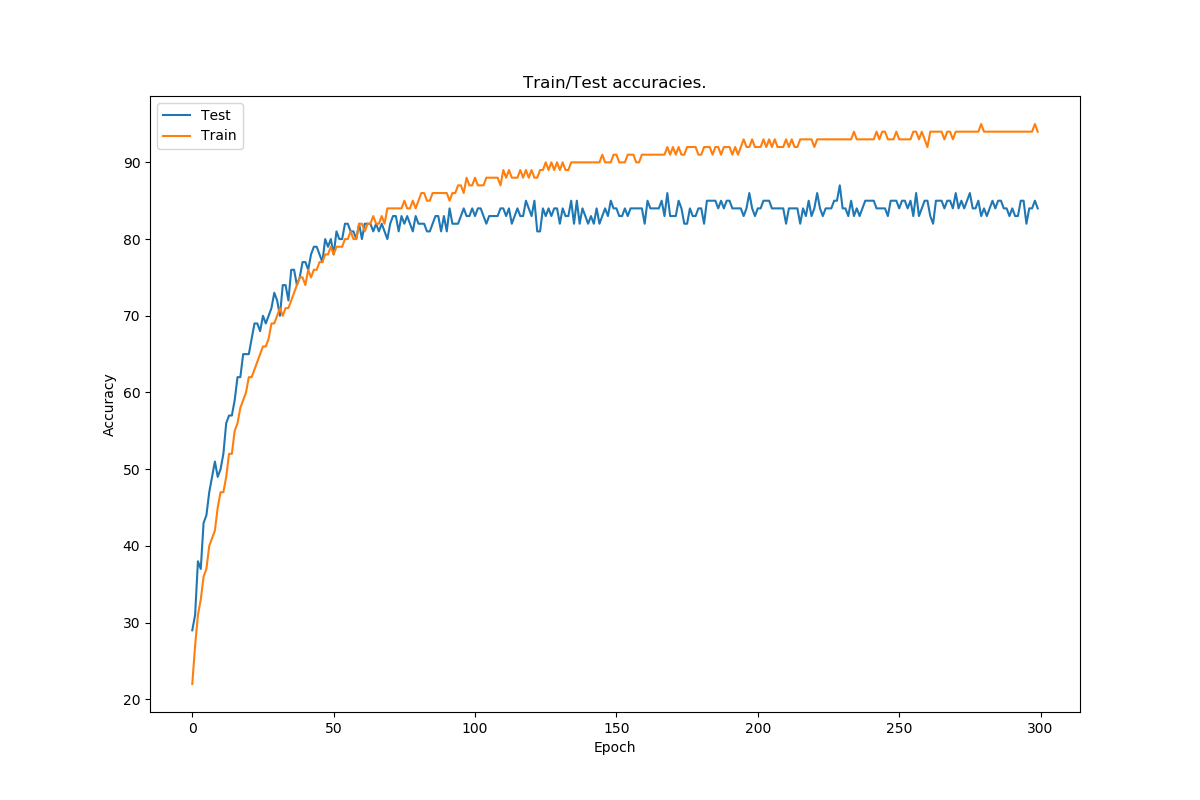
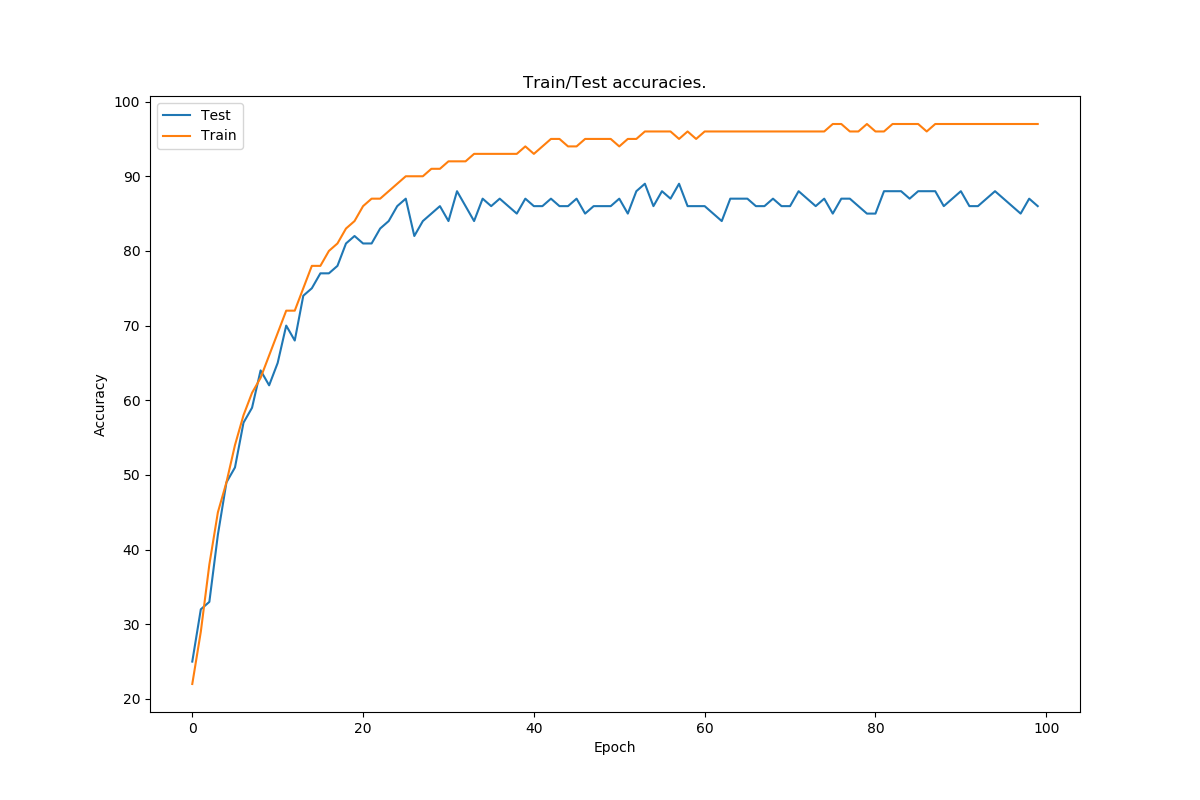
new model in development

diff --git a/layers/isotonic_layer.py b/layers/isotonic_layer.py
@@ -29,12 +29,28 @@ class Isotonic(nn.Module):
         self.weights = np.random.randn(4, self.input_channels,
                                        self.K, self.K)
         self.weights = torch.as_tensor(self.weights)
-        self.weights = torch.stack(
-            [weight_rotate(self.weights,
-                           i) for i in range(4)]).view((-1,
-                                                        self.input_channels,
-                                                        self.K, self.K))
-        
+        w0 = self.weights[0]
+        w1 = self.weights[1]
+        w2 = self.weights[2]
+        w3 = self.weights[3]
+        print(type(w0))
+        self.weights = torch.stack([torch.stack([w0, w1, w2, w3]),
+                                    torch.stack([weight_rotate(w3, 1),
+                                                 weight_rotate(w0, 1),
+                                                 weight_rotate(w1, 1),
+                                                 weight_rotate(w2, 1)]),
+                                    torch.stack([weight_rotate(w2, 2),
+                                                 weight_rotate(w3, 2),
+                                                 weight_rotate(w0, 2),
+                                                 weight_rotate(w1, 2)]),
+                                    torch.stack([weight_rotate(w1, 3),
+                                                 weight_rotate(w2, 3),
+                                                 weight_rotate(w3, 3),
+                                                 weight_rotate(w0, 3)])]).view(
+            (-1,
+             self.input_channels,
+             self.K,
+             self.K))
         self.weights.requires_grad = True
         return self.weights
 

diff --git a/main.py b/main.py
@@ -1,6 +1,6 @@
 from sklearn.metrics import f1_score, precision_score, recall_score
 # , classification_report, confusion_matrix
-from model_harmonic import HarmonicNet
+from models.model_harmonic import HarmonicNet
 # from local_loader import LocalLoader
 from loader import LoaderSmall
 import pandas as pd
@@ -12,9 +12,9 @@ import gc
 from typing import List  # pylint: ignore
 from tqdm import tqdm
 import matplotlib.pyplot as plt
-from albumentations.augmentations.transforms import RandomRotate90, Rotate
-from albumentations import Compose
 
+
+torch.random.manual_seed(42)
 
 tfms = None  # Compose(transforms=[RandomRotate90(p=0.4), Rotate(p=0.5)])
 
@@ -95,7 +95,7 @@ criterion = nn.BCEWithLogitsLoss()
 optimizer = optim.Adam(model_harmonic.parameters(),
                        # eps=1e-5,
                        lr=base_lr,
-                       weight_decay=0.0001)
+                       weight_decay=0.)
 
 best_acc = 0
 
@@ -237,7 +237,7 @@ def get_lr(optimizer=optimizer):
 
 
 # t = tqdm(total=300)
-for epoch in tqdm(range(100)):
+for epoch in range(100):
     lr = get_lr()
     # adjust_learning_rate(optimizer, epoch)
     print(f" Epoch: {epoch}, learning rate = {lr:1.2e};\n")

diff --git a/loader.py b/loader.py
@@ -27,7 +27,7 @@ class Loader(Dataset):
             self.train_labels,  self.test_labels = train_test_split(
                 np.asarray(data),
                 np.asarray(labels),
-                test_size=0.15)
+                test_size=0.2)
         self.color_transform_dict = {
             'rgb': color.rgb2rgbcie,
             'hed': color.rgb2hed,

diff --git a/additions.py b/additions.py
@@ -14,7 +14,8 @@ def rescale_torch(image: Tensor) -> Tensor:
 
 
 def rot90(matrix: Tensor) -> Tensor:
-    return matrix.transpose(-2, -1).flip(2)
+    dims = range(len(matrix.shape))
+    return matrix.transpose(dims[-2], dims[-1]).flip(2)
 
 
 def weight_rotate(weight: Tensor, rot: int = 0) -> Tensor:

diff --git a/layers/test.py b/layers/test.py
@@ -1,0 +1,10 @@
+from isotonic_layer import Isotonic
+import numpy as np
+import torch
+import pytest
+from additions import rot90, weight_rotate
+
+
+def test():
+    weights = torch.from_numpy(np.random.randn(4, 1, 3, 3))
+    assert torch.is_tensor(weights) is True

diff --git a/models/model_harmonic.py b/models/model_harmonic.py
@@ -1,6 +1,6 @@
-from harmonic_block import HarmonicBlock
+from layers.harmonic_block import HarmonicBlock
 import torch.nn as nn
-from flatten import Flatten
+from layers.flatten import Flatten
 from torch import Tensor, float32
 
 
